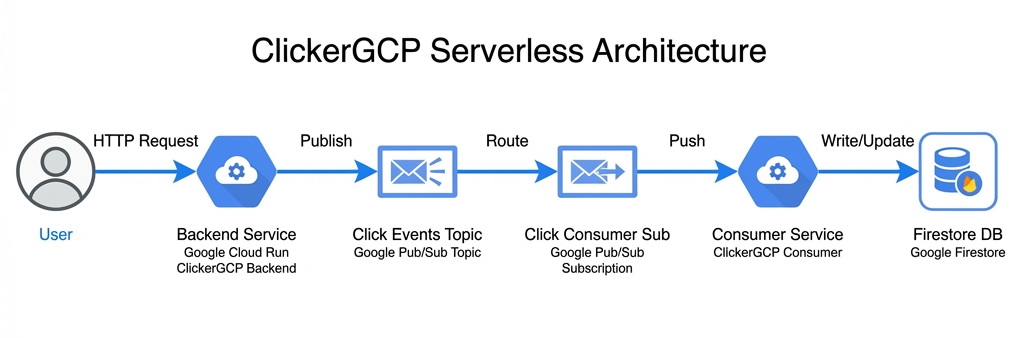
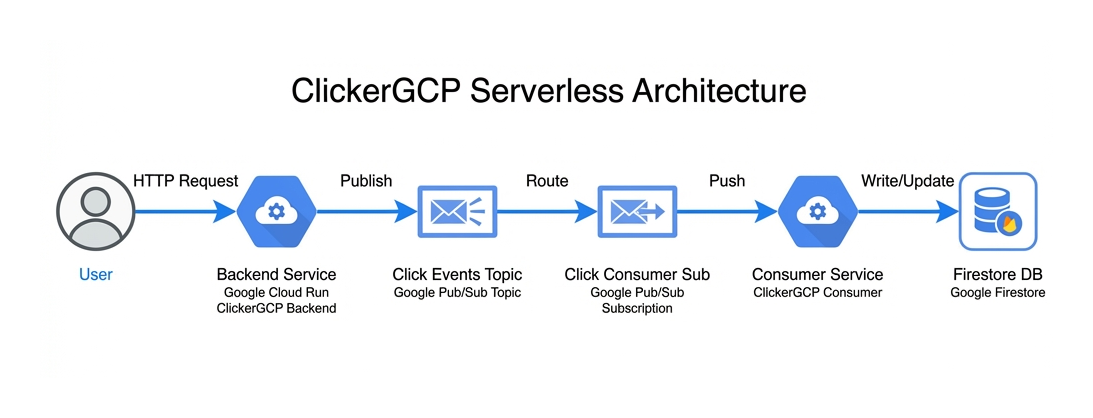
added infra image to readme

Changed region(s): [[0.0, 0.3846, 1.0, 0.8284], [0.2448, 0.0888, 0.7651, 0.2663], [0.3366, 0.6213, 0.4896, 0.7692]]

diff --git a/README.md b/README.md
@@ -102,6 +102,12 @@ curl "$BACKEND/count" | jq .
 
 ## System Architecture
 
+### Visual Architecture Diagram
+
+![ClickerGCP Serverless Architecture](infrastructure.png)
+
+### ASCII Architecture
+
 ```
 ┌─────────────────────────────────────────────────────────────────┐
 │                    Frontend (Browser)                            │
